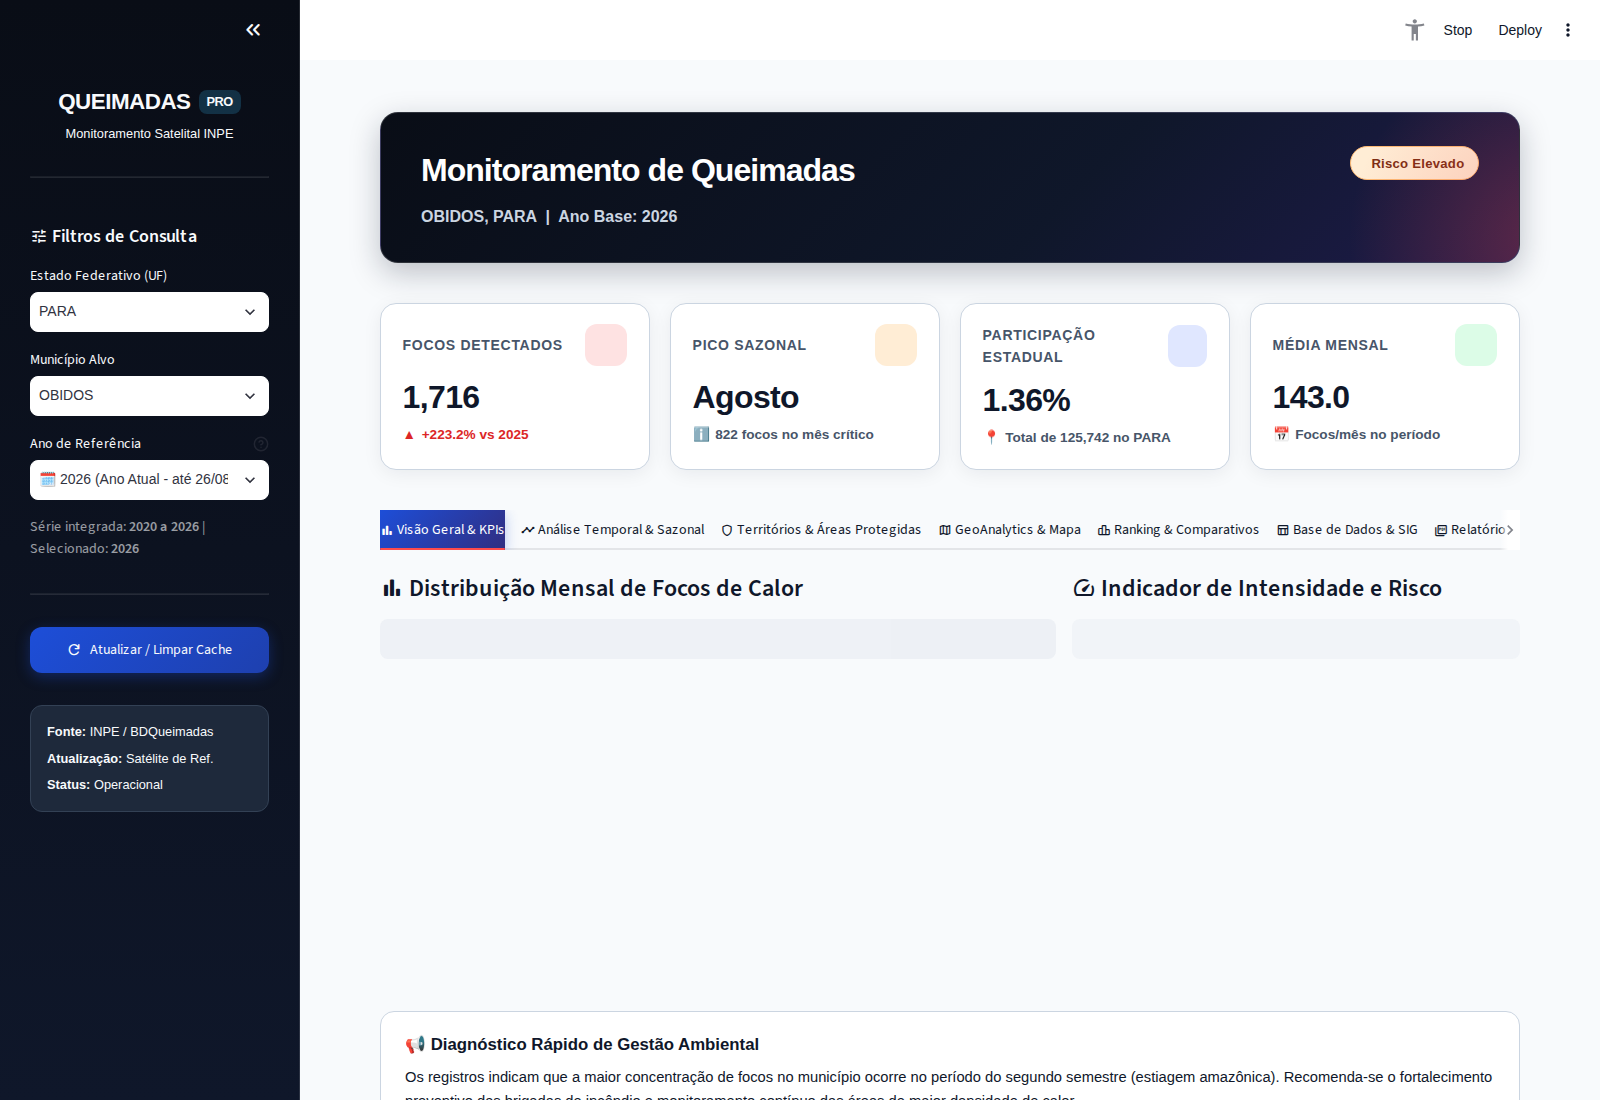
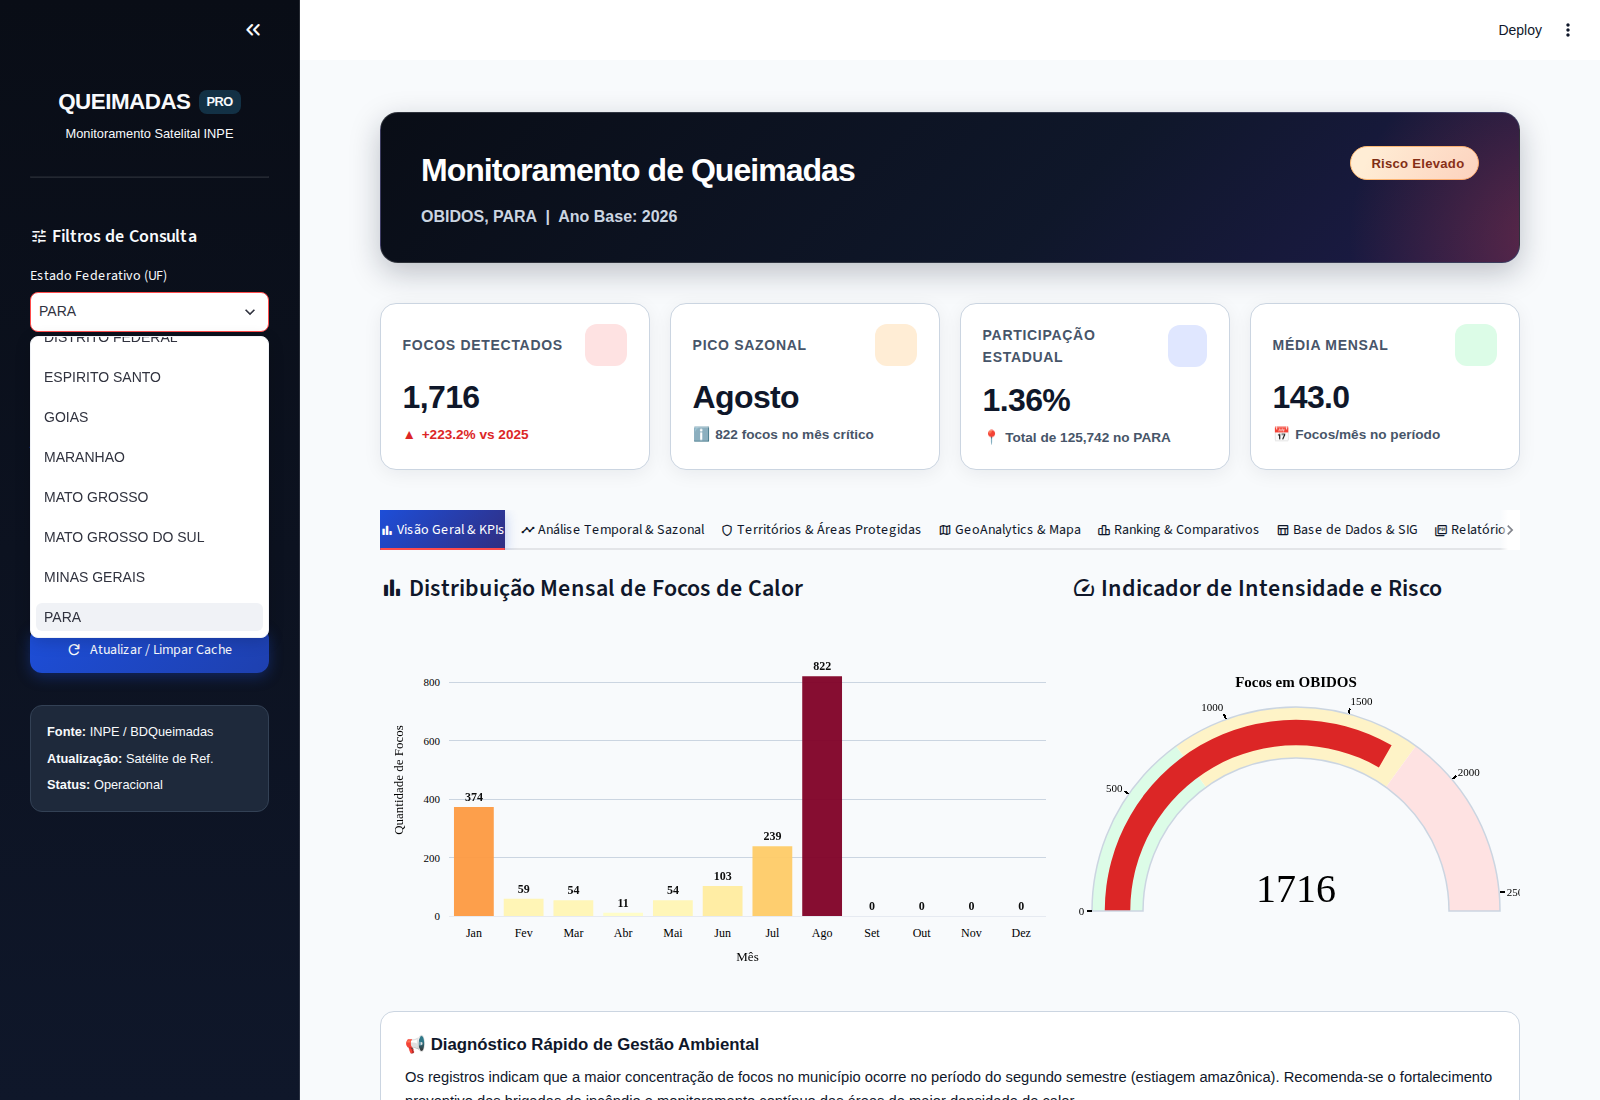
feat(dashboard): incluir todos os 27 estados federativos do Brasil no seletor de UF
- Configurar dataset nacional com todos os 27 estados (AC, AL, AP, AM, BA, CE, DF, ES, GO, MA, MT, MS, MG, PA, PB, PR, PE, PI, RJ, RN, RS, RO, RR, SC, SP, SE, TO)
- Otimizar indexacao de memoria e persistencia do seletor

diff --git a/dashboard/app.py b/dashboard/app.py
@@ -39,7 +39,7 @@ SCRIPT_DIR = os.path.dirname(os.path.abspath(__file__))
 ROOT_DIR = os.path.abspath(os.path.join(SCRIPT_DIR, ".."))
 PARA_FILE = os.path.join(ROOT_DIR, "dados", "tratado", "para.csv")
 GERAL_FILE = os.path.join(ROOT_DIR, "dados", "tratado", "queimadas_tratado.csv")
-DATA_FILE = PARA_FILE if os.path.exists(PARA_FILE) else GERAL_FILE
+DATA_FILE = GERAL_FILE if os.path.exists(GERAL_FILE) else PARA_FILE
 TERR_FILE = os.path.join(ROOT_DIR, "dados", "tratado", "obidos_territorios.csv")
 LOGO_FILE = os.path.join(ROOT_DIR, "assets", "logo_q.png")
 ICON_FILE = os.path.join(ROOT_DIR, "assets", "icon.png")
@@ -507,19 +507,23 @@ def carregar_dados_inpe_ano(ano: int) -> pd.DataFrame:
     return df
 
 
-@st.cache_data(ttl=3600, show_spinner="Carregando e indexando dados de queimadas (2020–2026)...")
+@st.cache_data(ttl=3600, show_spinner="Carregando e indexando dados de queimadas dos 27 estados (2020–2026)...")
 def carregar_dados() -> pd.DataFrame:
-    """Carrega dados tratados locais ou aciona download direto com fallback."""
+    """Carrega dados tratados locais de todo o Brasil (todos os 27 estados) ou aciona download direto."""
     df = None
     if os.path.exists(DATA_FILE):
         try:
-            df_temp = pd.read_csv(DATA_FILE, low_memory=False)
-            if ("data" in df_temp.columns or "data_pas" in df_temp.columns or "datahora" in df_temp.columns) and len(df_temp) > 100:
-                df = df_temp
+            cols_disponiveis = pd.read_csv(DATA_FILE, nrows=2).columns.str.lower().str.strip().tolist()
+            cols_desejadas = [c for c in ['latitude', 'longitude', 'lat', 'lon', 'estado', 'municipio', 'bioma', 'data', 'ano', 'mes', 'data_pas', 'datahora', 'data_hora_gmt', 'risco_fogo', 'frp'] if c in cols_disponiveis]
+            
+            df = pd.read_csv(DATA_FILE, usecols=cols_desejadas if len(cols_desejadas) >= 5 else None, low_memory=False)
         except Exception:
-            df = None
+            try:
+                df = pd.read_csv(DATA_FILE, low_memory=False)
+            except Exception:
+                df = None
 
-    if df is None:
+    if df is None or len(df) == 0:
         dfs = []
         for ano in INPE_YEARS:
             try:
@@ -531,7 +535,7 @@ def carregar_dados() -> pd.DataFrame:
     df = df.rename(columns={"lat": "latitude", "lon": "longitude", "long": "longitude"})
 
     col_data = (
-        "datahora" if "datahora" in df.columns else "data" if "data" in df.columns else "data_pas"
+        "datahora" if "datahora" in df.columns else "data" if "data" in df.columns else "data_pas" if "data_pas" in df.columns else "data_hora_gmt"
     )
     df["data"] = pd.to_datetime(df[col_data], errors="coerce")
     df = df.dropna(subset=["data"])
@@ -574,8 +578,16 @@ with st.sidebar:
 
     st.markdown("### :material/tune: Filtros de Consulta")
 
-    # 1. Filtro de Estado
-    estados_disponiveis = sorted(df_geral["estado"].unique())
+    # 1. Filtro de Estado (Todos os 27 Estados da Federação)
+    estados_brasil = [
+        "ACRE", "ALAGOAS", "AMAPA", "AMAZONAS", "BAHIA", "CEARA", "DISTRITO FEDERAL",
+        "ESPIRITO SANTO", "GOIAS", "MARANHAO", "MATO GROSSO", "MATO GROSSO DO SUL",
+        "MINAS GERAIS", "PARA", "PARAIBA", "PARANA", "PERNAMBUCO", "PIAUI",
+        "RIO DE JANEIRO", "RIO GRANDE DO NORTE", "RIO GRANDE DO SUL", "RONDONIA",
+        "RORAIMA", "SANTA CATARINA", "SAO PAULO", "SERGIPE", "TOCANTINS"
+    ]
+    estados_presentes = sorted([e for e in df_geral["estado"].dropna().unique() if e])
+    estados_disponiveis = sorted(list(set(estados_presentes + estados_brasil)))
     estado_default_idx = estados_disponiveis.index("PARA") if "PARA" in estados_disponiveis else 0
     estado_sel = st.selectbox("Estado Federativo (UF)", estados_disponiveis, index=estado_default_idx)
 
